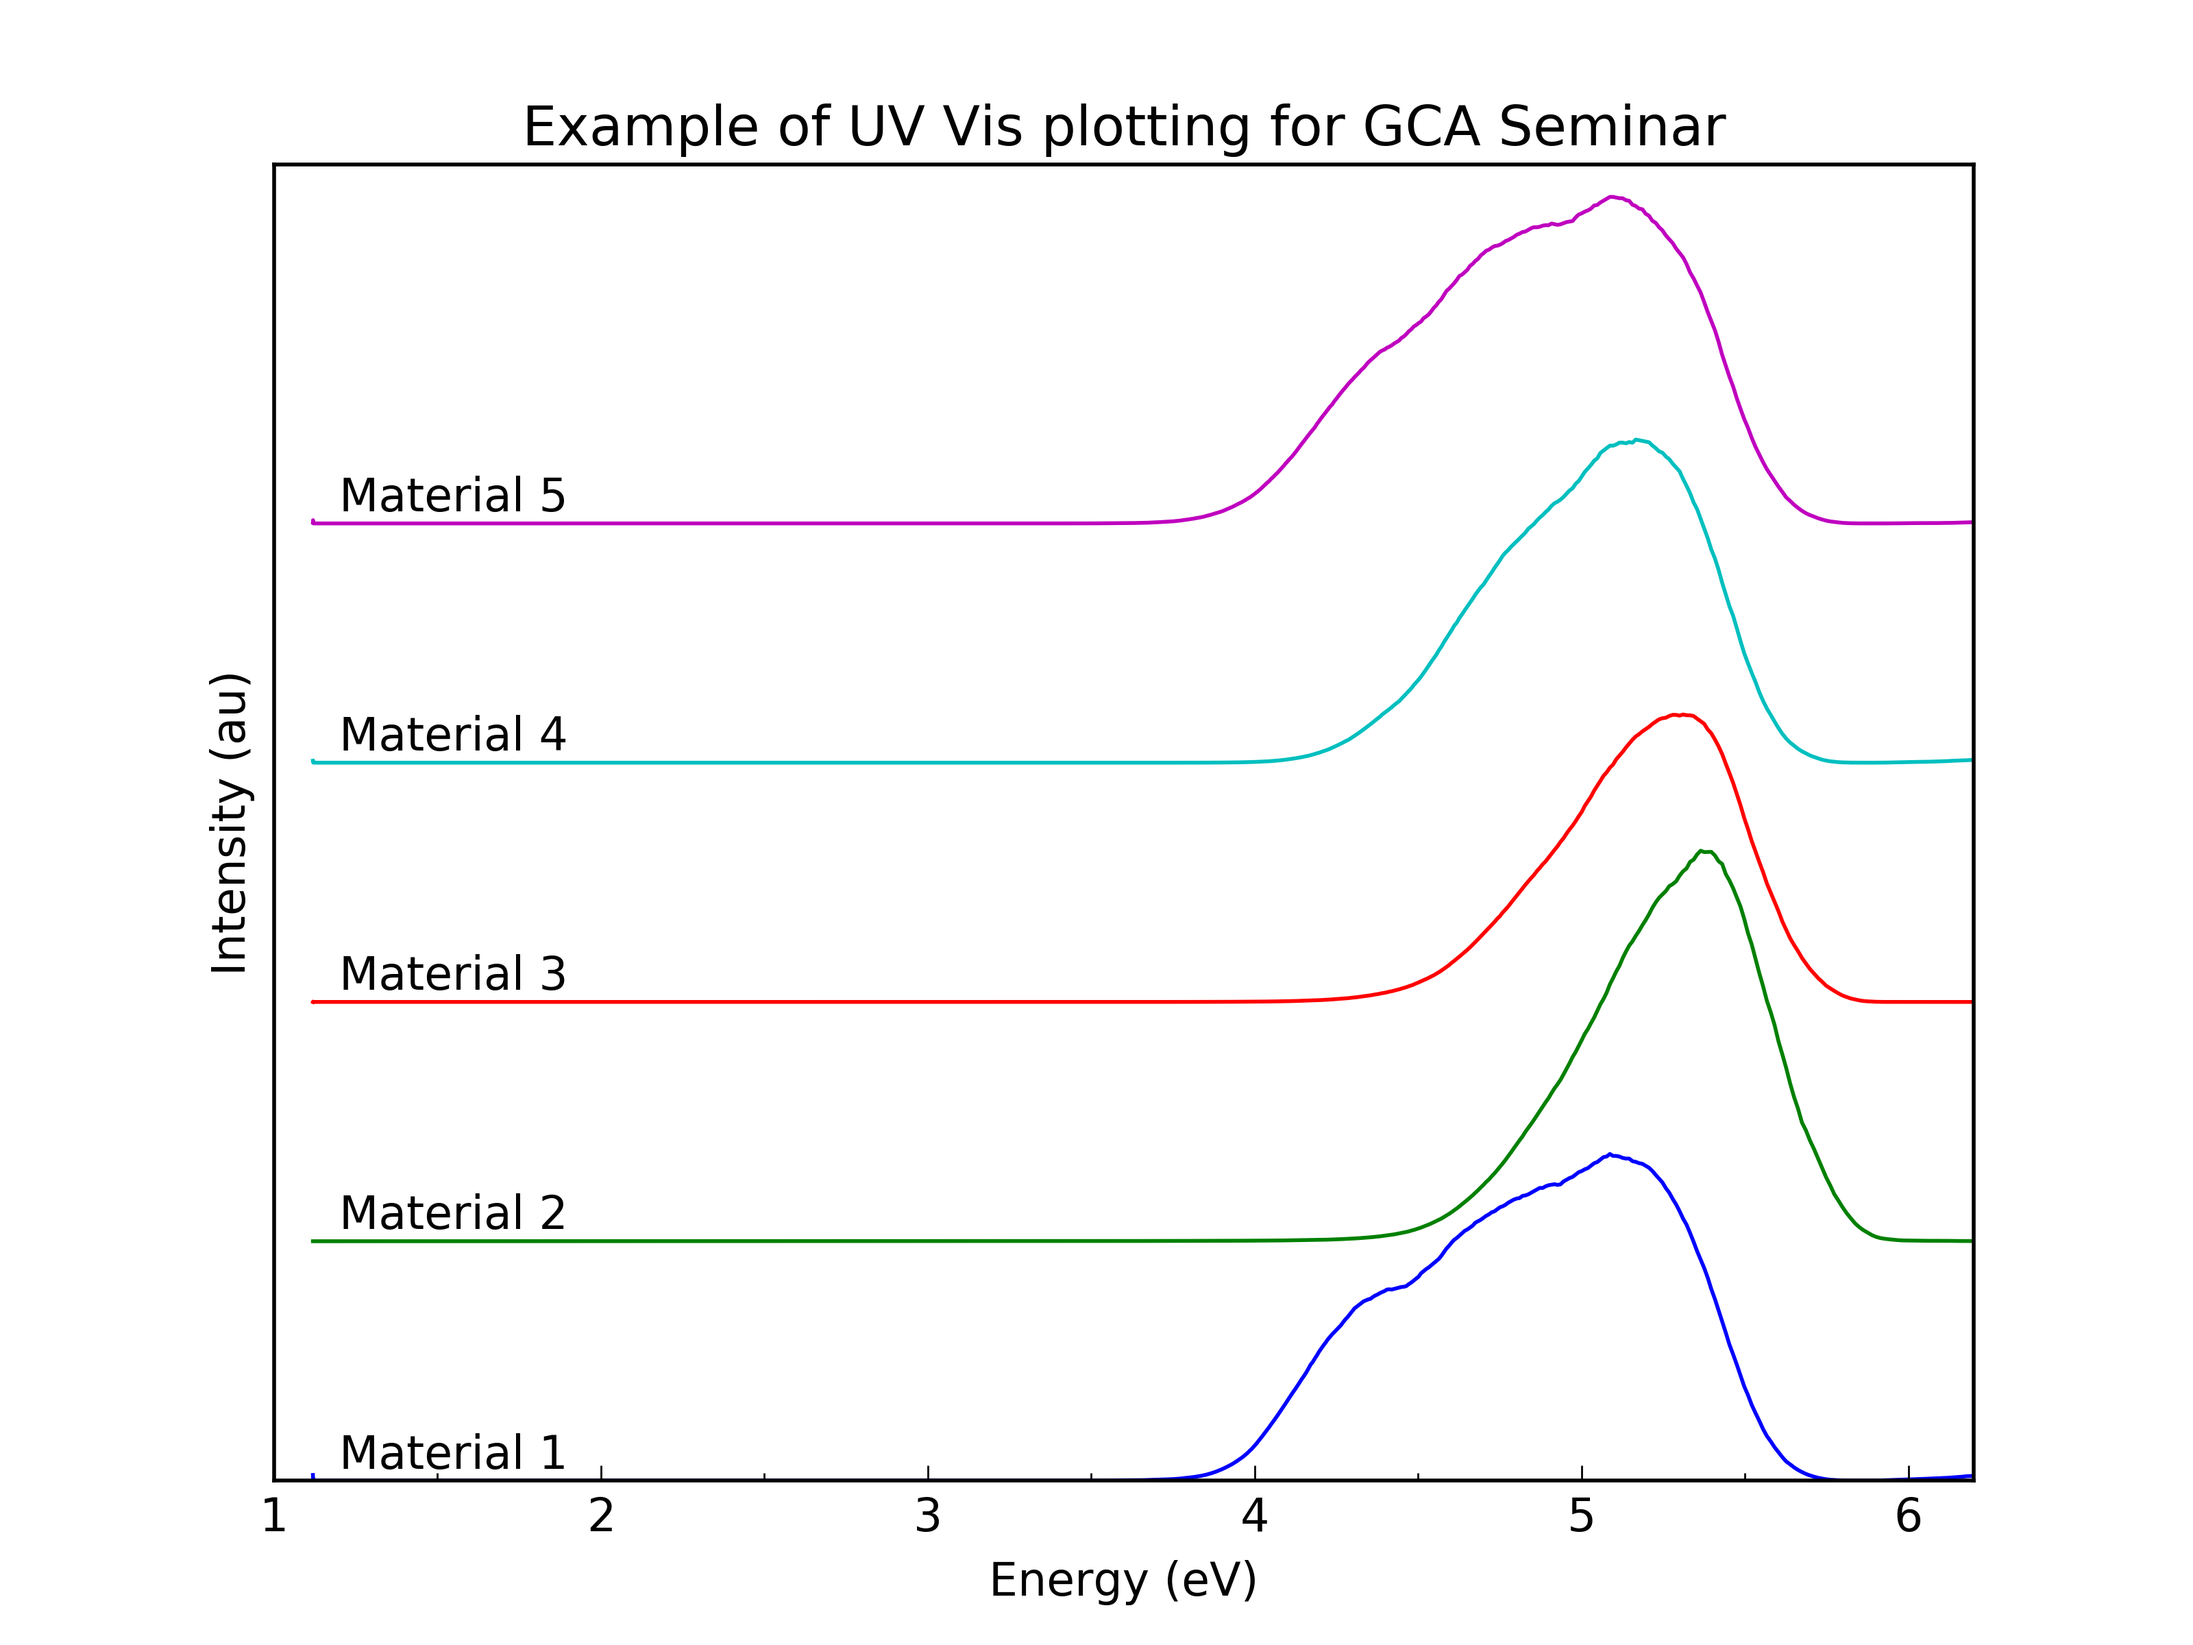
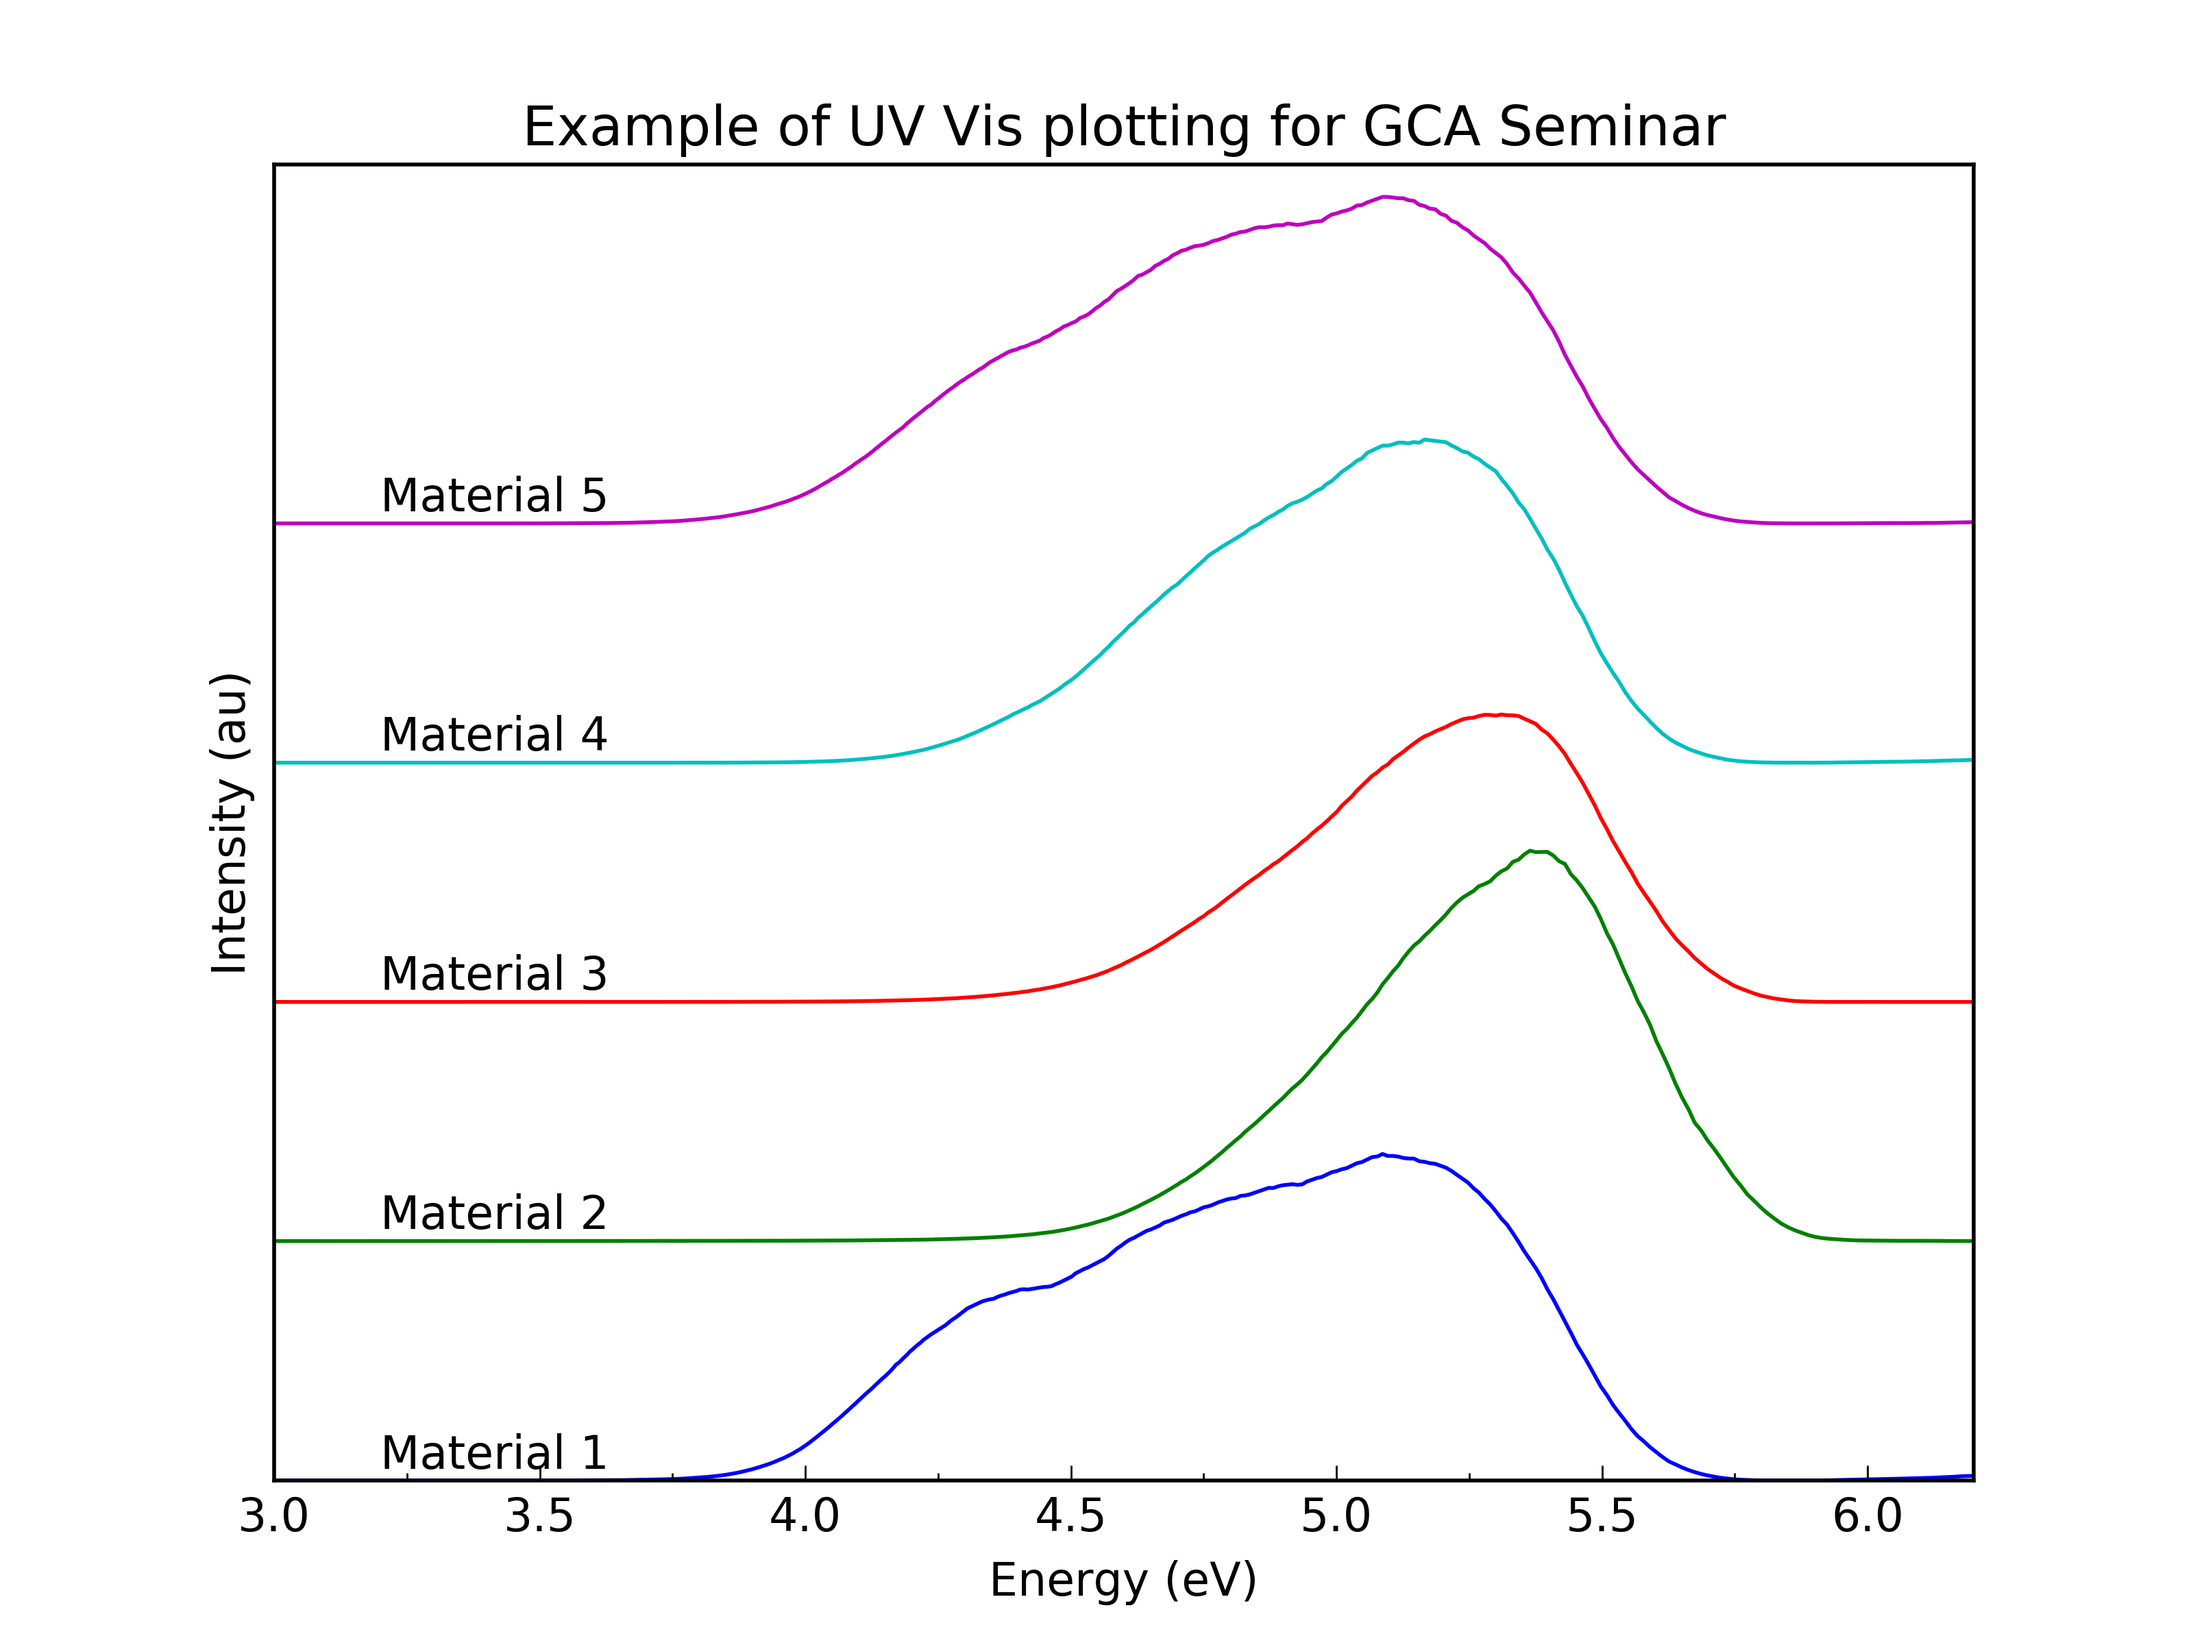
Changed module import from functions to uvfuncs. Cleaned tex auxiliary files

diff --git a/source/uv_vis_launcher.py b/source/uv_vis_launcher.py
@@ -1,5 +1,5 @@
 import numpy as np
-import uv_vis_functions as functions
+import uv_vis_functions as uvfuncs
 
 
 # --------------- Import data
@@ -9,19 +9,19 @@ raw_uv_data = np.genfromtxt('../data/uv_vis_data.csv', delimiter=',',
 # --------------- Process data
 
 scaling_fc = (1, 1, 1, 1, 1)
-Eg_data, tramitance_sc = functions.process_data(raw_uv_data, scaling_fc)
+Eg_data, tramitance_sc = uvfuncs.process_data(raw_uv_data, scaling_fc)
 
-# Export data
+# Export processed data
 np.savetxt('../results/tables/Eg_data.csv', Eg_data, delimiter=',')
 np.savetxt('../results/tables/tramitance_sc.csv', tramitance_sc, delimiter=',')
 
 # --------------- Plot data
 offset = 20
-fig_uv, axis_uv = functions.plot_uv_vis(Eg_data, tramitance_sc, offset)
+fig_uv, axis_uv = uvfuncs.plot_uv_vis(Eg_data, tramitance_sc, offset)
 
 # Edit axes
 axis_uv.set_title('Example of UV Vis plotting for GCA Seminar')
-axis_uv.set_xlim(xmax=6.2)
+axis_uv.set_xlim(3, 6.2)
 axis_uv.set_ylim(ymax=110)
 axis_uv.yaxis.set_ticks([])  # Remove yticks
 
@@ -29,7 +29,7 @@ axis_uv.yaxis.set_ticks([])  # Remove yticks
 names_curves = ['Material %i' % ind for ind in range(1, 6)]
 offset_acum = 1
 for name in names_curves:
-    axis_uv.text(1.2, offset_acum, name)
+    axis_uv.text(3.2, offset_acum, name)
     offset_acum += offset
 
 # Save figure

diff --git a/source/uv_vis_functions.py b/source/uv_vis_functions.py
@@ -14,8 +14,8 @@ def process_data(raw_data, scaling_factors):
     Inputs
     ----------
     raw_data : array_type
-        UV-Vis raw data organized in columns. First column contains wavelength
-        values (nm) and tramitance values (au.) from second column on .
+        UV-Vis raw data organized in columns. Odd colums contain wavelength
+        values (nm) and even columns contain tramitance values (au.).
 
     scaling_factors : tuple
         Contains numbers in the range 0 - 1 which are intended to multiply
@@ -49,12 +49,12 @@ def plot_uv_vis(Eg_array, tramitance_array, offset):
     import matplotlib.pyplot as plt
     from matplotlib.ticker import AutoMinorLocator
 
+    # Create figure
     fig, axis = plt.subplots()
     number_plots = len(Eg_array.T)
 
-    offset_acum = 0
-
     # --------------- Iterate to plot all curves
+    offset_acum = 0
 
     for ind in range(number_plots):
         axis.plot(Eg_array[:, ind], tramitance_array[:, ind] + offset_acum)
